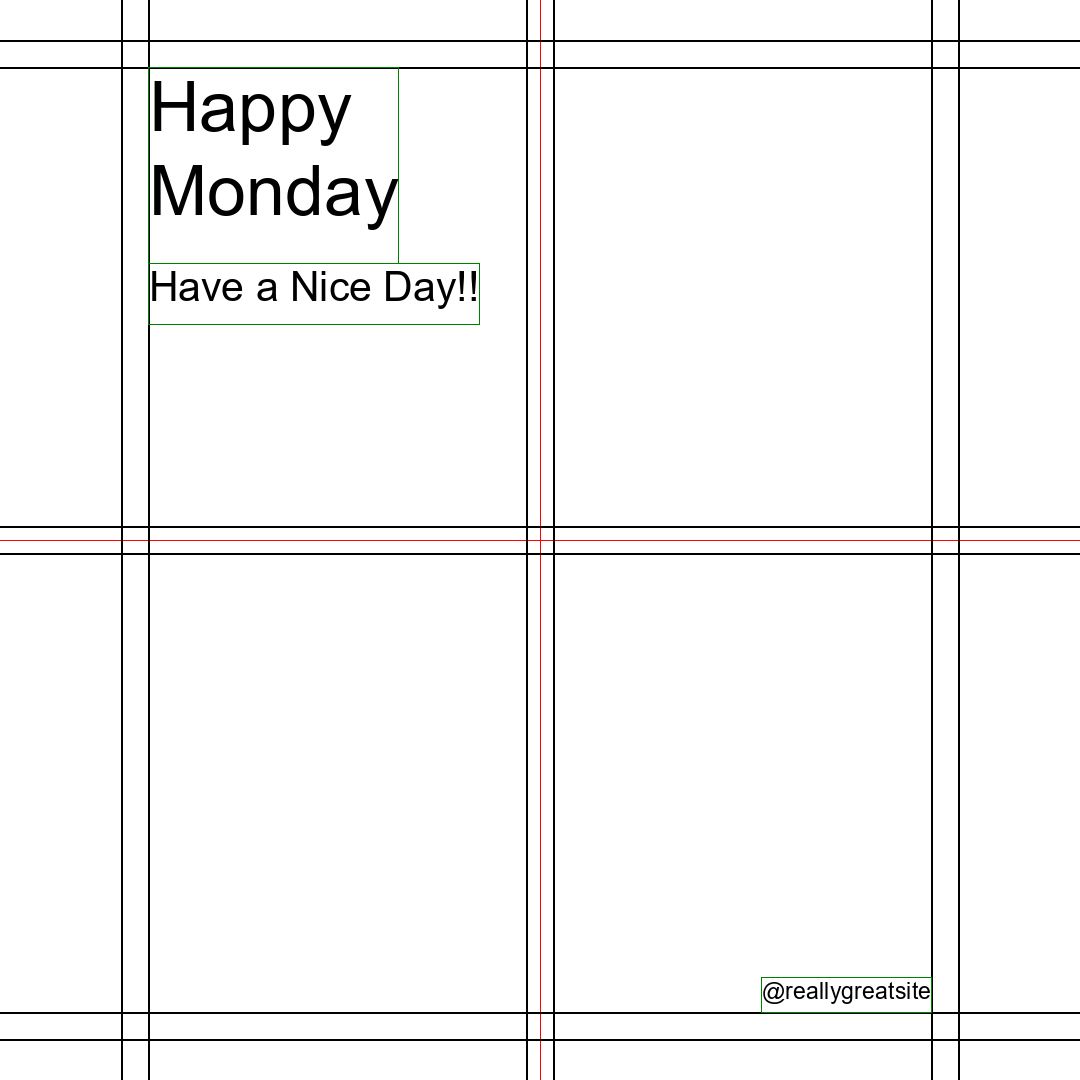
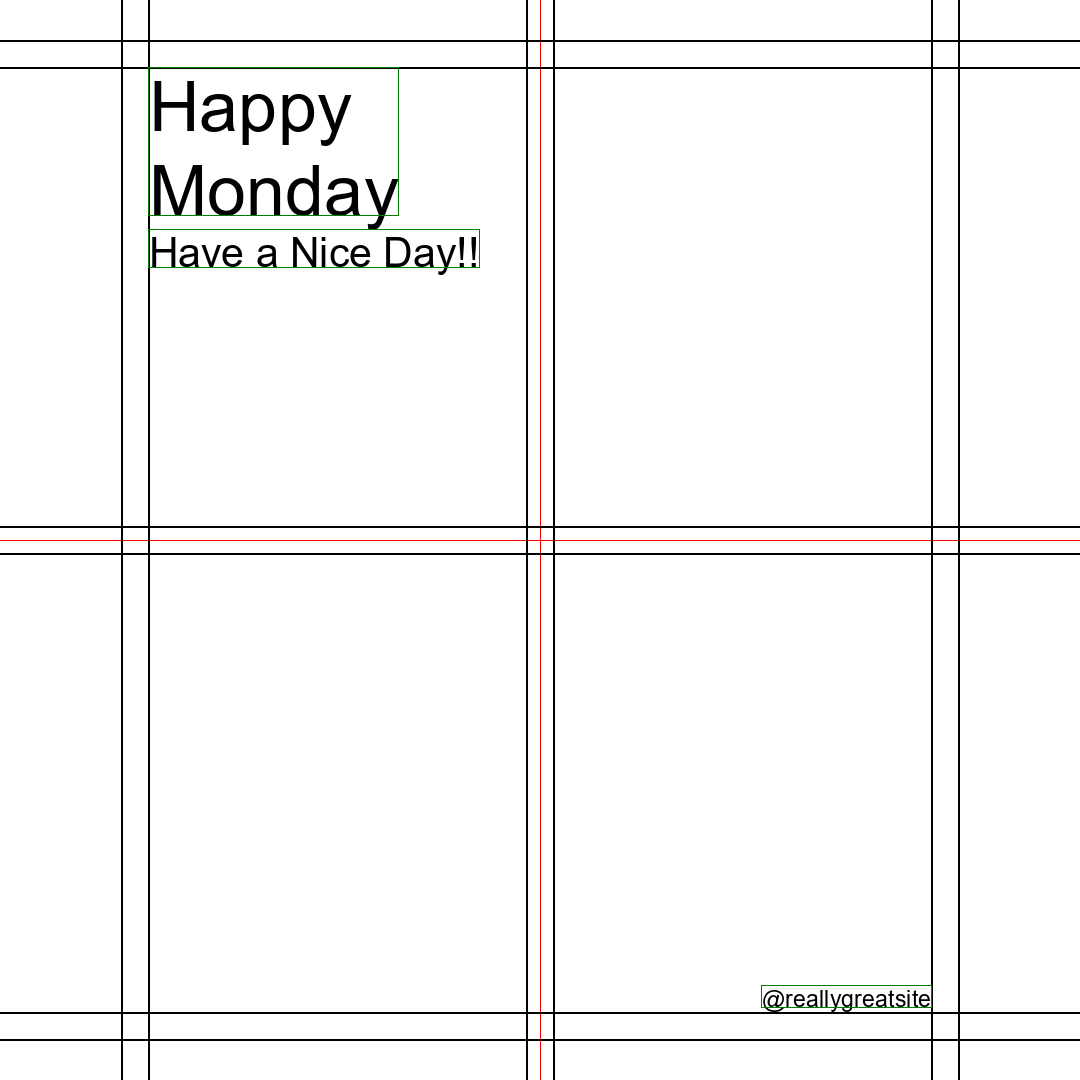
wip

Changed region(s): [[0.1222, 0.2139, 0.4583, 0.3056], [0.7028, 0.8861, 0.8556, 0.9472]]

diff --git a/step4.py b/step4.py
@@ -234,8 +234,10 @@ def draw(width, height, font:ImageFont, grid:Grid, groups):
             prominence = elements[i]['prominence']
             text = elements[i]['description']
             ft = font.font_variant(size=font_sizes[prominence-1] * font_factor)
-            _,_,_,line_height =ft.getbbox('A')
-            # y = y + line_height * 0.25
+            ascent, descent = ft.getmetrics()
+            (width, baseline), (offset_x, offset_y) = ft.font.getsize("A")
+            line_height = ascent + descent
+            # y = y + 0.25 * font_sizes[prominence-1] * font_factor
             wrapper = TextWrapper(text, ft, col_spacing - 2 * half_gutter_spacing)
             wrapped_text = wrapper.wrapped_text()
             alignment_x = elements[i]['alignment_x']
@@ -257,10 +259,11 @@ def draw(width, height, font:ImageFont, grid:Grid, groups):
             elements[i]['text'] = wrapped_text
             elements[i]['align'] = align
             n_lines = wrapped_text.count("\n")+1
-            print(text, n_lines)
-            new_y = y + n_lines*font_sizes[prominence-1] * font_factor + (n_lines-1)*line_spacing[prominence-1] + 0.5 * font_sizes[prominence-1] * font_factor
+            # print(text, n_lines)
+            new_y = y + n_lines*ascent + (n_lines-1)*line_spacing[prominence-1]
             elements[i]['y_height'] = new_y - y
-            y = y + xy3-xy1 +  0.5 * font_sizes[prominence-1] * font_factor
+            y = new_y + offset_y
+            # y = y + xy3-xy1 +  0.5 * font_sizes[prominence-1] * font_factor
         for element in elements:
             prominence = element['prominence']
             ft = font.font_variant(size=font_sizes[prominence-1] * font_factor)
